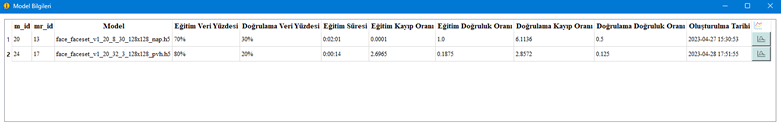
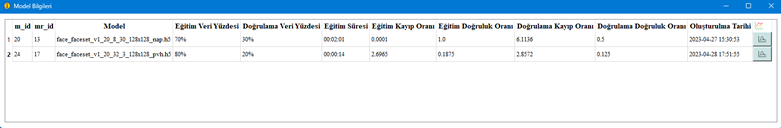
time up

diff --git a/src/main/python/PostgreSQL.py b/src/main/python/PostgreSQL.py
@@ -74,7 +74,7 @@ def listModels():
             "data_validation_percentage": row[11],
             "create_date_time": str(row[12]).split(".")[0],
             "mr_id": row[13],
-            "total_time": row[14],
+            "total_time": "0" + str(row[14]) if len(str(row[14]).split(":")[0]) == 1 else row[14],
             "train_loss": row[15],
             "train_acc": row[16],
             "validation_loss": row[17],
